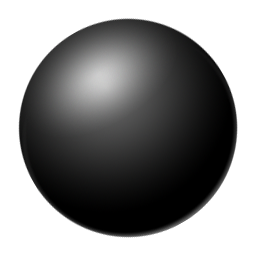
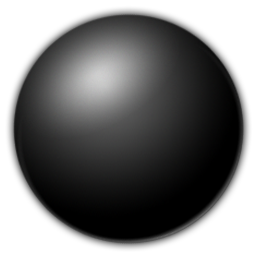
更新了棋子样式&显示当前棋子

Changed region(s): [[0.0312, 0.0312, 1.0, 1.0]]

diff --git a/src/chessboardwidget.cpp b/src/chessboardwidget.cpp
@@ -12,13 +12,17 @@ int ChessBoardWidget::gridDots[5][2] = {{2, 2}, {2, 6}, {4, 4}, {6, 2}, {6, 6}};
 ChessBoardWidget::ChessBoardWidget(ChessBoard* chessboard, QWidget *parent)
     :QWidget(parent)
     ,board(chessboard)
+    ,currentX(-1)
+    ,currentY(-1)
 {
     if(!board)
         board=new ChessBoard(this);
 
     imgBoard.load("data/chessboard.png");
-    imgChessBlack.load("data/chessblack.png");
-    imgChessWhite.load("data/chesswhite.png");
+    imgChessBlack[0].load("data/chessblack.png");
+    imgChessWhite[0].load("data/chesswhite.png");
+    imgChessBlack[1].load("data/chessblacks.png");
+    imgChessWhite[1].load("data/chesswhites.png");
 
     penLine.setWidth(2);
     penDot.setWidth(9);
@@ -87,6 +91,7 @@ void ChessBoardWidget::drawChess(QPainter& painter)
         return;
 
     int i,j;
+    bool flag;
 
     painter.translate(gridLeft-cellWidth*0.5, gridTop-cellHeight*0.5);
 
@@ -96,10 +101,11 @@ void ChessBoardWidget::drawChess(QPainter& painter)
         {
             if(!board->isChess(i, j))
                 continue;
+            flag=(i==currentY&&j==currentX);
             painter.save();
             painter.translate(cellWidth*j, cellHeight*i);
             painter.drawImage(QRectF(0, 0, cellWidth, cellHeight),
-                              board->getGrid(i, j)==ChessBoard::black?imgChessBlack:imgChessWhite);
+                              board->getGrid(i, j)==ChessBoard::black?imgChessBlack[flag]:imgChessWhite[flag]);
             painter.restore();
         }
     }

diff --git a/src/chessboardwidget.h b/src/chessboardwidget.h
@@ -19,6 +19,8 @@ protected:
     void paintEvent(QPaintEvent*);
     void resizeEvent(QResizeEvent*);
 
+    void mousePressEvent();
+
 private:
 
     static double gridAreaSize;
@@ -28,9 +30,12 @@ private:
 
     ChessBoard* board;
 
+    int currentX;
+    int currentY;
+
     QImage imgBoard;
-    QImage imgChessBlack;
-    QImage imgChessWhite;
+    QImage imgChessBlack[2];
+    QImage imgChessWhite[2];
 
     QPen penLine;
     QPen penDot;
